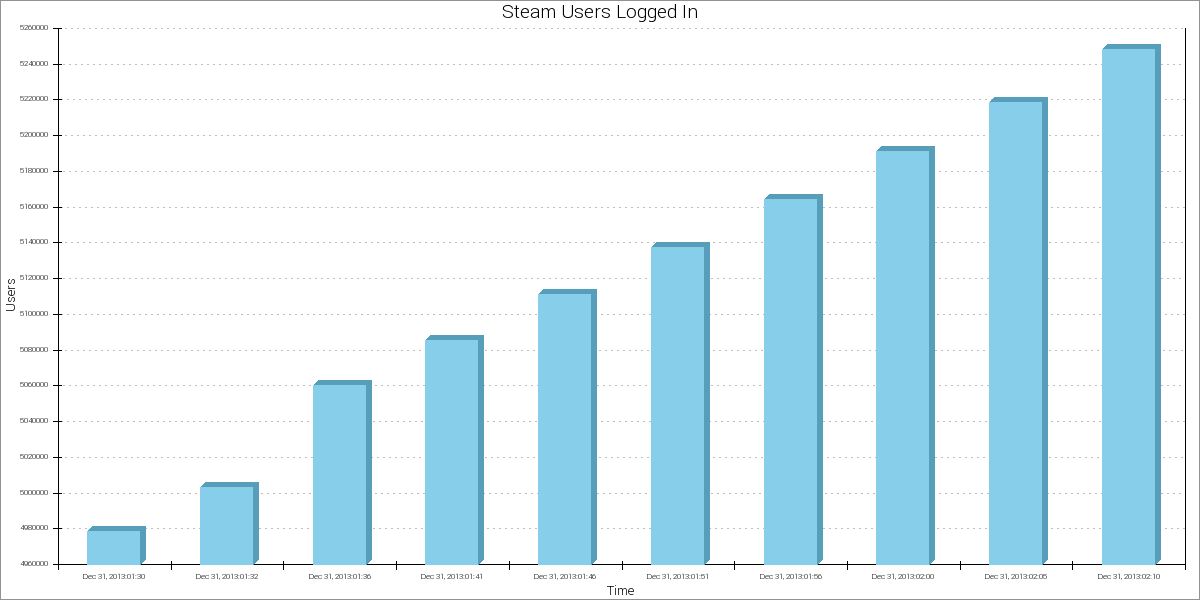
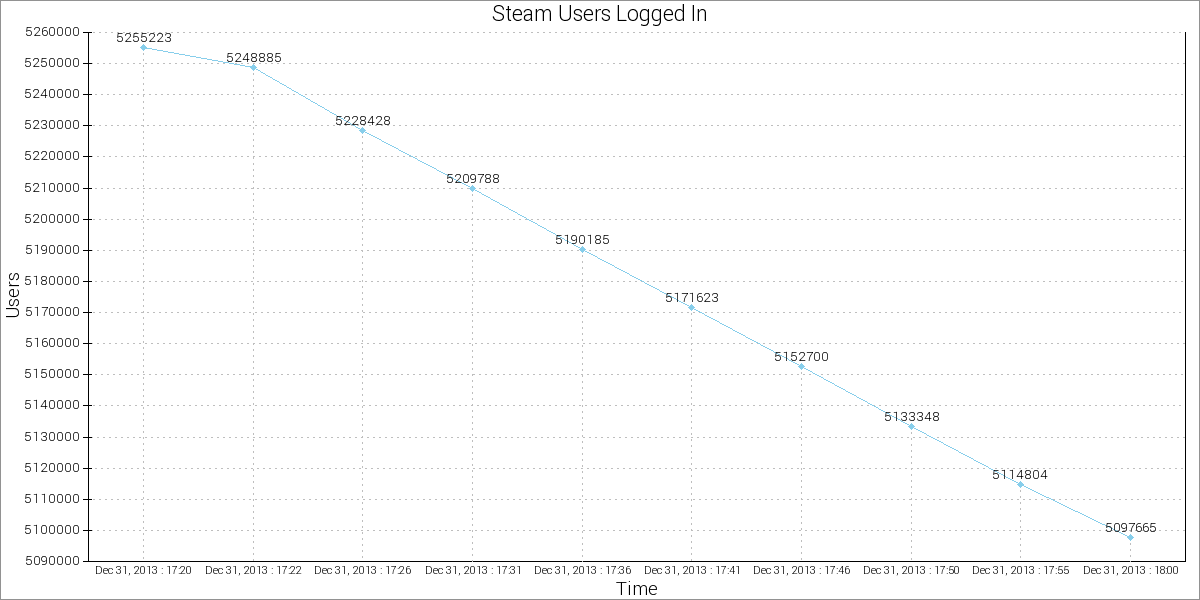
v0.01

diff --git a/index.php b/index.php
@@ -16,7 +16,7 @@ $data = array(
 */
 if ($result = $db->query('SELECT * FROM data ORDER BY id DESC LIMIT 10')) {
 	while ($row = $result->fetch_assoc()) {
-		$data[] = array($row['date'] . ':' . $row['time'], $row['value']);
+		$data[] = array($row['date'] . ' : ' . $row['time'], $row['value']);
 	}
 	$result->free();
 }
@@ -25,11 +25,20 @@ $data = array_reverse($data);
 require 'phplot.php';
 $plot = new PHPlot(1200,600);
 $plot->SetDataValues($data);
-$plot->SetPlotType('bars');
+$plot->SetYDataLabelPos('plotin');
+$plot->SetPlotType('linepoints');
+$plot->SetDrawXDataLabelLines(true);
 $plot->SetImageBorderType('plain');
 $plot->SetDataType('text-data');
-$plot->SetDefaultTTFont('font/roboto.ttf');
+$plot->SetTTFPath('font');
+$plot->SetFontTTF('x_label', 'roboto.ttf', 8);
+$plot->SetFontTTF('y_label', 'roboto.ttf', 10);
+$plot->SetFontTTF('title', 'roboto.ttf', 16);
+$plot->SetFontTTF('x_title', 'roboto.ttf', 14);
+$plot->SetFontTTF('y_title', 'roboto.ttf', 14);
 $plot->SetXTitle('Time');
 $plot->SetYTitle('Users');
+$plot->SetXTickLabelPos('none');
+$plot->SetXTickPos('none');
 $plot->SetTitle('Steam Users Logged In');
 $plot->DrawGraph();
